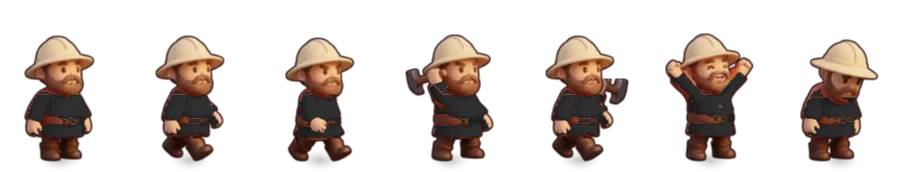
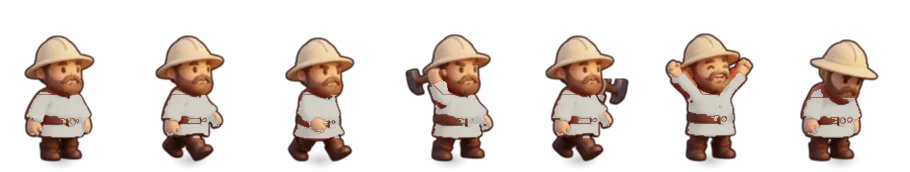
Site: Grok Build joins, Codex wears white
- Grok Build in the agents roster, the logo network (a sixth spoke under
  the village), the marquee, copy, FAQ, beta guide, privacy page, footer
  and llms.txt; xAI added to the not-affiliated lines
- builder and tent images regenerated from the app art: Codex white, plus
  master-grok and tent-grok
- roster is three by two; room under the network for the bottom node, and
  the phone bubble sits below it
- agent colour tokens and DESIGN.md follow the app (Codex #e6e3dc, Grok
  #3a3a40)

diff --git a/site/src/data/site.ts b/site/src/data/site.ts
@@ -7,7 +7,7 @@ export const site = {
   tagline: 'Run all your coding agents from one village',
   url: 'https://clashofclaudes.crevn.xyz',
   description:
-    'A Mac app that turns Claude Code, Codex, Antigravity CLI and OpenCode sessions into builders in a cozy village. See who is working, who needs you, who shipped.',
+    'A Mac app that turns Claude Code, Codex, Antigravity CLI, OpenCode and Grok Build sessions into builders in a cozy village. See who is working, who needs you, who shipped.',
   download: 'https://github.com/fabianferno/clashofclaudes-releases/releases/latest/download/Clash-of-Claudes.dmg',
   releases: 'https://github.com/fabianferno/clashofclaudes-releases/releases',
   latestApi: 'https://api.github.com/repos/fabianferno/clashofclaudes-releases/releases/latest',
@@ -25,7 +25,7 @@ export const nav = [
   { href: '/privacy/', label: 'Privacy' },
 ];
 
-export type AgentKey = 'claude' | 'codex' | 'antigravity' | 'opencode';
+export type AgentKey = 'claude' | 'codex' | 'antigravity' | 'opencode' | 'grok';
 
 export const agents: {
   key: AgentKey;
@@ -77,6 +77,16 @@ export const agents: {
     approve: 'Answer in its terminal, one click from the builder.',
     verified: false,
   },
+  {
+    key: 'grok',
+    name: 'Grok Build',
+    command: 'grok',
+    builder: 'master-grok',
+    rank: 'Master',
+    reports: 'Working, needs you (its trust screen too), finished, and failed with Grok’s own reason, read from what grok prints. No settings files at all.',
+    approve: 'Answer in its terminal. The red “!” still tells you when.',
+    verified: false,
+  },
 ];
 
 // The agents section: each agent reports to the village. A sample of what each might say, in the
@@ -86,6 +96,7 @@ export const reports: { agent: AgentKey; name: string; status: 'needs' | 'work' 
   { agent: 'codex', name: 'Codex', status: 'work', label: 'Working', text: 'Rate-limiting the webhook route. 5 steps in.' },
   { agent: 'antigravity', name: 'Antigravity CLI', status: 'done', label: 'Finished', text: 'Docs updated in 31 tool steps.' },
   { agent: 'opencode', name: 'OpenCode', status: 'stuck', label: 'Stuck', text: 'Exited with an error. Open its terminal?' },
+  { agent: 'grok', name: 'Grok Build', status: 'work', label: 'Working', text: 'Writing tests for the parser. 12 steps in.' },
 ];
 
 // The feature reel: the ad's beats as a scroll story. Each beat plays a loop of real app footage
@@ -95,7 +106,7 @@ export const reel: { clip: string; title: string; text: string }[] = [
   {
     clip: 'build',
     title: 'Every session is a *builder*',
-    text: 'Start Claude Code, Codex, Antigravity CLI or OpenCode in a project and a builder walks onto a plot and starts hammering. The tent rises as the agent works. When the turn is done it stands finished and the builder cheers.',
+    text: 'Start Claude Code, Codex, Antigravity CLI, OpenCode or Grok Build in a project and a builder walks onto a plot and starts hammering. The tent rises as the agent works. When the turn is done it stands finished and the builder cheers.',
   },
   {
     clip: 'needs',
@@ -105,7 +116,7 @@ export const reel: { clip: string; title: string; text: string }[] = [
   {
     clip: 'outfits',
     title: 'Dressed by *provider*',
-    text: 'Claude Code builders work in orange, Codex in charcoal, Antigravity in blue and OpenCode in teal, tents included, so you can tell whose work you are looking at from across the village.',
+    text: 'Claude Code builders work in orange, Codex in white, Antigravity in blue, OpenCode in teal and Grok Build in black, tents included, so you can tell whose work you are looking at from across the village.',
   },
   {
     clip: 'ranks',
@@ -146,7 +157,7 @@ export const privacy = [
   },
   {
     title: 'Your agent config is never touched',
-    text: 'Nothing under ~/.claude, ~/.codex, ~/.gemini or ~/.config/opencode is ever edited. Each session gets a private settings file in the app’s own folder, deleted when it closes.',
+    text: 'Nothing under ~/.claude, ~/.codex, ~/.gemini, ~/.config/opencode or ~/.grok is ever edited. Each session gets a private settings file in the app’s own folder, deleted when it closes.',
   },
   {
     title: 'Status stays on localhost',
@@ -162,7 +173,7 @@ export const privacy = [
 export const faq = [
   {
     q: 'What is Clash of Claudes?',
-    a: 'A Mac app that runs your coding agent sessions (Claude Code, Codex, Antigravity CLI, OpenCode or any command) and shows each one as a builder in a village. Each project folder is a walled compound. You can see at a glance which agents are working, which need your approval and which have finished.',
+    a: 'A Mac app that runs your coding agent sessions (Claude Code, Codex, Antigravity CLI, OpenCode, Grok Build or any command) and shows each one as a builder in a village. Each project folder is a walled compound. You can see at a glance which agents are working, which need your approval and which have finished.',
   },
   {
     q: 'How do I run several Claude Code sessions at once without losing track?',
@@ -170,15 +181,15 @@ export const faq = [
   },
   {
     q: 'Which coding agents does it support?',
-    a: 'Claude Code and Antigravity CLI are checked against real runs, including allowing or denying permission prompts from the village. Codex and OpenCode are supported from their documentation and testers are helping confirm them. Any other command also works: it counts as working while it prints and finished once it goes quiet.',
+    a: 'Claude Code and Antigravity CLI are checked against real runs, including allowing or denying permission prompts from the village. Grok Build’s status reports were checked against a real grok; Codex, OpenCode and the rest of Grok Build are supported from their documentation and testers are helping confirm them. Any other command also works: it counts as working while it prints and finished once it goes quiet.',
   },
   {
     q: 'Does it send my code or prompts anywhere?',
     a: 'No. Agent output, prompts, file names and folders stay on your Mac. The only network calls are the update check, which you can turn off, bug reports or feature requests you choose to send, and anonymous usage counts, which are off unless you turn them on.',
   },
   {
-    q: 'Will it change my Claude Code, Codex or OpenCode settings?',
-    a: 'No. Nothing under ~/.claude, ~/.codex, ~/.gemini or ~/.config/opencode is edited. Each session gets a private settings file in the app’s own folder, deleted when the session closes. It uses the CLIs and logins you already have.',
+    q: 'Will it change my Claude Code, Codex, OpenCode or Grok Build settings?',
+    a: 'No. Nothing under ~/.claude, ~/.codex, ~/.gemini, ~/.config/opencode or ~/.grok is edited. Each session gets a private settings file in the app’s own folder, deleted when the session closes. It uses the CLIs and logins you already have.',
   },
   {
     q: 'What do I need to run it?',
@@ -193,7 +204,7 @@ export const faq = [
     a: 'From the app: Help › Report a Bug… or Help › Request a Feature…, or the Beta feedback card in Settings. Nothing is sent until you read it and press Send. For anything else, send Fabian a DM on X.',
   },
   {
-    q: 'Is it made by Anthropic, OpenAI or Google?',
-    a: 'No. Clash of Claudes is an independent app built by Crevn. It is not affiliated with or endorsed by Anthropic, OpenAI, Google or the OpenCode team.',
+    q: 'Is it made by Anthropic, OpenAI, Google or xAI?',
+    a: 'No. Clash of Claudes is an independent app built by Crevn. It is not affiliated with or endorsed by Anthropic, OpenAI, Google, xAI or the OpenCode team.',
   },
 ] as const;

diff --git a/site/src/data/agentMarks.ts b/site/src/data/agentMarks.ts
@@ -1,20 +1,21 @@
 // Copied from the app (src/agentMarks.ts) so the site draws the same marks.
-export type AgentKind = 'claude' | 'codex' | 'antigravity' | 'opencode' | 'custom';
+export type AgentKind = 'claude' | 'codex' | 'antigravity' | 'opencode' | 'grok' | 'custom';
 
 // Marks for Claude Code and OpenCode are from Simple Icons (https://simpleicons.org, CC0-1.0), and
-// Codex's (the OpenAI mark) and Antigravity's from Lobe Icons (@lobehub/icons-static-svg 1.71.0 and
-// 1.102.0, MIT); the trademarks belong to their owners and only identify each agent. Custom has a
+// Codex's (the OpenAI mark), Antigravity's and Grok's from Lobe Icons (@lobehub/icons-static-svg
+// 1.71.0 and 1.102.0, MIT); the trademarks belong to their owners and only identify each agent. Custom has a
 // neutral prompt glyph.
 /** Each agent's mark as a filled path in a 24x24 box; agents without one use `PROMPT_GLYPH`. */
 export const MARK_PATHS: Partial<Record<AgentKind, string>> = {
   claude: 'M21 10.5h3v3h-3v3h-1.5v3H18v-3h-1.5v3H15v-3H9v3H7.5v-3H6v3H4.5v-3H3v-3H0v-3h3v-6h18Zm-15 0h1.5v-3H6Zm10.5 0H18v-3h-1.5z',
   antigravity: 'M21.751 22.607c1.34 1.005 3.35.335 1.508-1.508C17.73 15.74 18.904 1 12.037 1 5.17 1 6.342 15.74.815 21.1c-2.01 2.009.167 2.511 1.507 1.506 5.192-3.517 4.857-9.714 9.715-9.714 4.857 0 4.522 6.197 9.714 9.715z',
   opencode: 'M22 24H2V0h20zM17 4.8H7v14.4h10z',
+  grok: 'M9.27 15.29l7.978-5.897c.391-.29.95-.177 1.137.272.98 2.369.542 5.215-1.41 7.169-1.951 1.954-4.667 2.382-7.149 1.406l-2.711 1.257c3.889 2.661 8.611 2.003 11.562-.953 2.341-2.344 3.066-5.539 2.388-8.42l.006.007c-.983-4.232.242-5.924 2.75-9.383.06-.082.12-.164.179-.248l-3.301 3.305v-.01L9.267 15.292M7.623 16.723c-2.792-2.67-2.31-6.801.071-9.184 1.761-1.763 4.647-2.483 7.166-1.425l2.705-1.25a7.808 7.808 0 00-1.829-1A8.975 8.975 0 005.984 5.83c-2.533 2.536-3.33 6.436-1.962 9.764 1.022 2.487-.653 4.246-2.34 6.022-.599.63-1.199 1.259-1.682 1.925l7.62-6.815',
   codex: 'M21.55 10.004a5.416 5.416 0 00-.478-4.501c-1.217-2.09-3.662-3.166-6.05-2.66A5.59 5.59 0 0010.831 1C8.39.995 6.224 2.546 5.473 4.838A5.553 5.553 0 001.76 7.496a5.487 5.487 0 00.691 6.5 5.416 5.416 0 00.477 4.502c1.217 2.09 3.662 3.165 6.05 2.66A5.586 5.586 0 0013.168 23c2.443.006 4.61-1.546 5.361-3.84a5.553 5.553 0 003.715-2.66 5.488 5.488 0 00-.693-6.497v.001zm-8.381 11.558a4.199 4.199 0 01-2.675-.954c.034-.018.093-.05.132-.074l4.44-2.53a.71.71 0 00.364-.623v-6.176l1.877 1.069c.02.01.033.029.036.05v5.115c-.003 2.274-1.87 4.118-4.174 4.123zM4.192 17.78a4.059 4.059 0 01-.498-2.763c.032.02.09.055.131.078l4.44 2.53c.225.13.504.13.73 0l5.42-3.088v2.138a.068.068 0 01-.027.057L9.9 19.288c-1.999 1.136-4.552.46-5.707-1.51h-.001zM3.023 8.216A4.15 4.15 0 015.198 6.41l-.002.151v5.06a.711.711 0 00.364.624l5.42 3.087-1.876 1.07a.067.067 0 01-.063.005l-4.489-2.559c-1.995-1.14-2.679-3.658-1.53-5.63h.001zm15.417 3.54l-5.42-3.088L14.896 7.6a.067.067 0 01.063-.006l4.489 2.557c1.998 1.14 2.683 3.662 1.529 5.633a4.163 4.163 0 01-2.174 1.807V12.38a.71.71 0 00-.363-.623zm1.867-2.773a6.04 6.04 0 00-.132-.078l-4.44-2.53a.731.731 0 00-.729 0l-5.42 3.088V7.325a.068.068 0 01.027-.057L14.1 4.713c2-1.137 4.555-.46 5.707 1.513.487.833.664 1.809.499 2.757h.001zm-11.741 3.81l-1.877-1.068a.065.065 0 01-.036-.051V6.559c.001-2.277 1.873-4.122 4.181-4.12.976 0 1.92.338 2.671.954-.034.018-.092.05-.131.073l-4.44 2.53a.71.71 0 00-.365.623l-.003 6.173v.002zm1.02-2.168L12 9.25l2.414 1.375v2.75L12 14.75l-2.415-1.375v-2.75z',
 };
 
 /** Marks drawn with the even-odd rule (their holes are subpaths, as in the source SVG). */
-export const MARK_FILL_RULE: Partial<Record<AgentKind, 'evenodd'>> = { codex: 'evenodd', antigravity: 'evenodd' };
+export const MARK_FILL_RULE: Partial<Record<AgentKind, 'evenodd'>> = { codex: 'evenodd', antigravity: 'evenodd', grok: 'evenodd' };
 
 /**
  * Antigravity's colour mark (Lobe Icons' antigravity-color): blurred Google-colour shapes inside
@@ -42,6 +43,7 @@ export const TILES: Record<AgentKind, { top: string; bottom: string; fg: string 
   claude: { top: '#E58A6B', bottom: '#C9653F', fg: '#FFFFFF' },
   codex: { top: '#3A3A3C', bottom: '#0B0B0C', fg: '#FFFFFF' },
   opencode: { top: '#2C2C2E', bottom: '#000000', fg: '#FFFFFF' },
+  grok: { top: '#1C1C1E', bottom: '#000000', fg: '#FFFFFF' },
   antigravity: { top: '#FFFFFF', bottom: '#E9E6F2', fg: 'gradient' },
   custom: { top: '#9A8668', bottom: '#6E5D45', fg: '#FFFFFF' },
 };

diff --git a/site/src/styles/site.css b/site/src/styles/site.css
@@ -335,7 +335,7 @@ html.motion .reel__slide.is-on .reel__kanban img { animation: kanban-pan 9s ease
 .roster__lede { max-width: 40rem; color: var(--muted-on-forest); font-size: var(--t-body); }
 
 /* The network: the agents' marks around the village icon (AgentNetwork.astro, src/motion/agents.ts). */
-.net { --tile: clamp(3.25rem, 2.4rem + 2.2vw, 4.75rem); position: relative; height: clamp(16rem, 36svh, 24rem); margin-inline: auto; max-width: 64rem; }
+.net { --tile: clamp(3.25rem, 2.4rem + 2.2vw, 4.75rem); position: relative; height: clamp(16rem, 36svh, 24rem); margin: 0 auto calc(var(--tile) / 2 + 2.5rem); max-width: 64rem; } /* room under the bottom node */
 .net__lines { position: absolute; inset: 0; width: 100%; height: 100%; overflow: visible; }
 .net__lines line { stroke: var(--parchment); stroke-opacity: 0.3; stroke-width: 2; stroke-dasharray: 0.1 7; stroke-linecap: round; transition: stroke 0.4s, stroke-opacity 0.4s; }
 .net__lines line.is-on { stroke: var(--gold); stroke-opacity: 0.9; }
@@ -373,7 +373,7 @@ html.motion .net__bubble { visibility: hidden; }
 .net__text { margin-top: 0.15rem; font-size: var(--t-s); line-height: 1.35; }
 
 /* The facts per agent, under the graph. */
-.agents { list-style: none; padding: 0; display: grid; grid-template-columns: repeat(5, minmax(0, 1fr)); gap: var(--col-gap); margin-top: calc(var(--u) * 3); }
+.agents { list-style: none; padding: 0; display: grid; grid-template-columns: repeat(3, minmax(0, 1fr)); gap: 1.75rem var(--col-gap); margin-top: calc(var(--u) * 3); }
 .agents__item { display: grid; align-content: start; gap: 0.45rem; padding-top: 1rem; border-top: 1px solid rgb(247 234 208 / 0.2); font-size: var(--t-s); line-height: 1.45; color: var(--muted-on-forest); }
 .agents__item b { color: var(--parchment); font-weight: 700; }
 .agents__name { display: flex; align-items: center; gap: 0.55rem; flex-wrap: wrap; color: var(--parchment); line-height: 1.2; }
@@ -553,15 +553,12 @@ html.motion .drop-in { animation: drop-in 0.9s cubic-bezier(0.34, 1.56, 0.64, 1)
 .lost p { font-size: var(--t-m); font-weight: 500; }
 
 /* ---------- Responsive ---------- */
-@media (max-width: 1100px) {
-  .agents { grid-template-columns: repeat(3, minmax(0, 1fr)); row-gap: 1.75rem; }
-}
 @media (max-width: 860px) {
   .agents { grid-template-columns: repeat(2, minmax(0, 1fr)); row-gap: 1.5rem; }
-  .agents__item:last-child { grid-column: 1 / -1; }
   /* Phones: one bubble at a time, under the graph instead of beside its agent. */
-  .net { height: 16rem; margin: 2rem auto 8.5rem; --tile: 3rem; }
-  .net__say, .net__say--up, .net__say--left, .net__say--right { left: 50%; top: 100%; translate: -50% 1.6rem; max-width: min(20rem, 90%); }
+  .net { height: 16rem; margin: 2rem auto 11rem; --tile: 3rem; }
+  /* below the bottom node (Grok Build) and its name */
+  .net__say, .net__say--up, .net__say--left, .net__say--right { left: 50%; top: 100%; translate: -50% calc(var(--tile) / 2 + 2.6rem); max-width: min(20rem, 90%); }
   .net__name { font-size: 0.72rem; }
   html:not(.motion) .net__say { display: none; } /* they would stack in one spot */
   /* Phones: the copy sits high, a few pieces of the village line the bottom of the screen. */

diff --git a/site/src/pages/llms.txt.ts b/site/src/pages/llms.txt.ts
@@ -37,7 +37,7 @@ ${faq.map((f) => `### ${f.q}\n\n${f.a}`).join('\n\n')}
 - [Beta guide](${site.url}/beta/): install, first village, sending feedback, updates, known limits
 - [Privacy](${site.url}/privacy/): what the app touches, sends and never does
 
-Not affiliated with Anthropic, OpenAI, Google or the OpenCode team.
+Not affiliated with Anthropic, OpenAI, Google, xAI or the OpenCode team.
 `;
   return new Response(body, { headers: { 'Content-Type': 'text/plain; charset=utf-8' } });
 };

diff --git a/site/src/styles/tokens.css b/site/src/styles/tokens.css
@@ -38,9 +38,10 @@
   --muted-on-forest: #c4d3b5;
 
   --agent-claude: #d97757;
-  --agent-codex: #3a3a40;
+  --agent-codex: #e6e3dc;
   --agent-antigravity: #4f7cf0;
   --agent-opencode: #33a889;
+  --agent-grok: #3a3a40;
 
   /* Engine contract names */
   --c-bg: var(--meadow);

diff --git a/site/DESIGN.md b/site/DESIGN.md
@@ -6,7 +6,7 @@ below was made without them and is written down here so it can be changed later.
 ## Brief (Phase 0)
 
 - **Subject:** Clash of Claudes, a macOS desktop app (Tauri) that shows every running coding
-  agent session (Claude Code, Codex, Antigravity CLI, OpenCode, or any command) as a builder in
+  agent session (Claude Code, Codex, Antigravity CLI, OpenCode, Grok Build, or any command) as a builder in
   an isometric village. Each workspace is a walled compound; each session a builder raising a
   tent in it.
 - **Audience:** the owner's friends, mostly developers who already run two or more agent CLIs.
@@ -72,8 +72,8 @@ Screenshot:  the hero: the game-title headline beside a living plot with the Tow
 | `gold` (CTA, focus ring) | `#ffc53a` | crowns, pennants, the "finished" medal |
 | `alert` (needs you, used only for that state) | `#e2453a` | the "!" bubble |
 
-Agent colours come from the app (`PALETTE` in `look.ts`): Claude `#d97757`, Codex `#3a3a40`,
-Antigravity `#4f7cf0`, OpenCode `#33a889`. They are used only to tag each agent.
+Agent colours come from the app (`PALETTE` in `look.ts`): Claude `#d97757`, Codex `#e6e3dc`,
+Antigravity `#4f7cf0`, OpenCode `#33a889`, Grok Build `#3a3a40`. They are used only to tag each agent.
 
 ### Type
 
